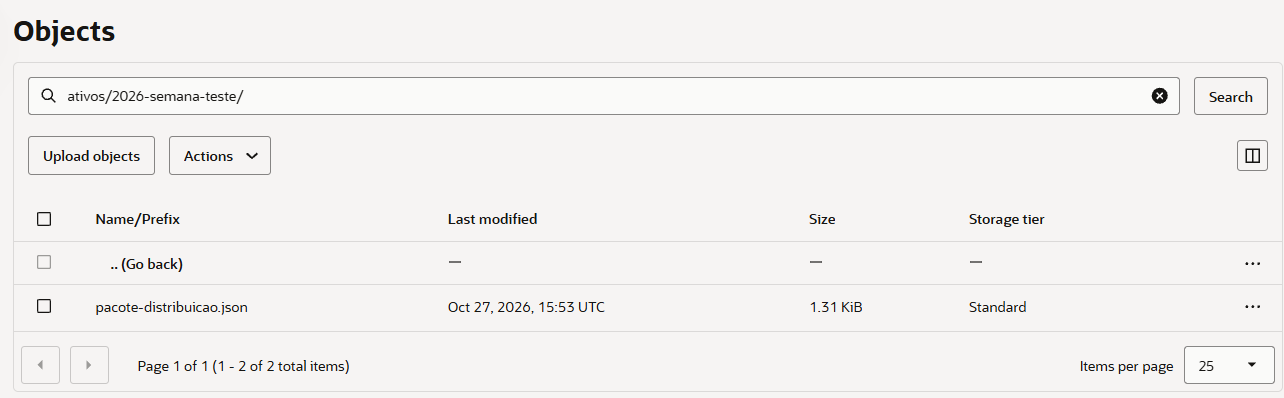
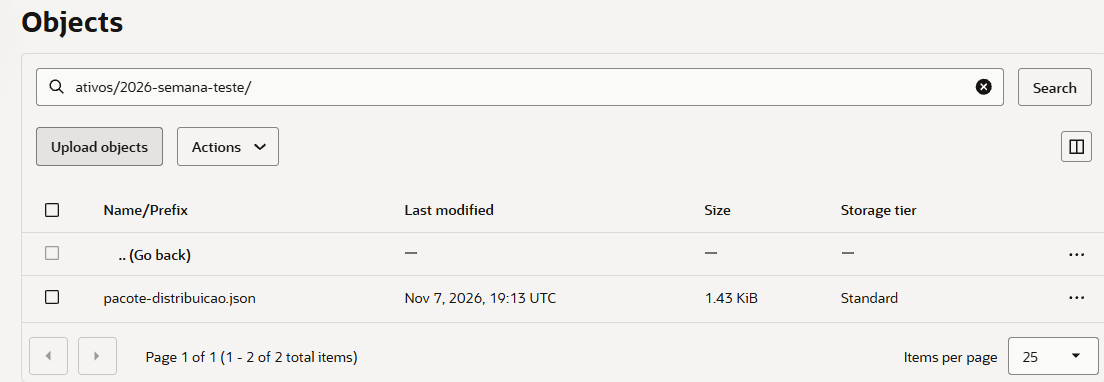
docs: adiciona relatorio de execucao e atualiza print oci

diff --git a/docs/evidencias/relatorio_execucao_oci.md b/docs/evidencias/relatorio_execucao_oci.md
@@ -1,0 +1,90 @@
+# Relatório de Execução do Fluxo Completo e Persistência OCI
+
+**Data da Execução:** 07/11/2026  
+**Ambiente:** Branch `main` (versão atualizada pós-roteamento e regras de privacidade)  
+**Autor:** Denilson Silva de Almeida (Engenharia de Dados)
+
+---
+
+## 1. Comando Executado
+
+O pipeline completo foi acionado via terminal com a flag de persistência na Oracle Cloud Infrastructure (`--oci`):
+
+```bash
+python -m src.pipeline dados/caso_proposta_estagio.json --oci --periodo Semana_Teste
+```
+
+---
+
+## 2. Saída do Terminal (`status: salvo_com_sucesso`)
+
+```json
+{
+  "status": "sucesso",
+  "resumo_comunidade": {
+    "total_interacoes_processadas": 2,
+    "sentimento_predominante": "Positivo",
+    "topicos_principais": [
+      "proposta de estágio em engenharia de dados",
+      "freela de automação"
+    ]
+  },
+  "ativos_distribuicao_gerados": {
+    "post_linkedin": {
+      "titulo": "Proposta de estágio em engenharia de dados e primeiro freela de automação",
+      "copy": "Duas conquistas da comunidade ONE! 🚀\n\nGustavo Prado recebeu uma proposta de estágio em engenharia de dados, depois de publicar no GitHub um pipeline com bucket na nuvem.\n\nHenrique Barros fechou seu primeiro freela de automação, usando n8n com Webhook para conectar um formulário a uma planilha, e o cliente adorou.\n\nParabéns a ambos! Qual projeto seu merece ser mostrado? Compartilhe nos comentários.\n\n#EngenhariaDeDados #Automação #CarreiraTech",
+      "canal_recomendado": "LinkedIn Oficial",
+      "potencial_engajamento": "Alto"
+    },
+    "destaque_newsletter_semanal": {
+      "secao": "Vitória da Semana",
+      "chamada": "Gustavo recebe proposta de estágio em engenharia de dados",
+      "resumo": "Gustavo Prado recebeu uma proposta de estágio em engenharia de dados após publicar no GitHub um pipeline com bucket na nuvem. Henrique Barros fechou seu primeiro freela de automação usando n8n e Webhook. Quer mostrar seu projeto? Conte em #conquistas-e-vagas."
+    },
+    "sugestao_conteudo_faq": null
+  },
+  "armazenamento_oci": {
+    "bucket": "communitylab-ativos-marketing",
+    "caminho_objeto": "ativos/2026-semana-teste/pacote-distribuicao.json",
+    "status": "salvo_com_sucesso"
+  }
+}
+```
+
+> **Cópia local gerada:** `saida/2026-semana-teste_pacote-distribuicao.json`
+
+---
+
+## 3. Comparação: Arquivo no Bucket OCI vs Cópia Local em `saida/`
+
+- **Conteúdo de Negócio:** Idêntico (100% de paridade nos ativos de marketing: LinkedIn, Newsletter e tópicos extraídos).
+- **Diferença Estrutural:** A única diferença é a presença do bloco `armazenamento_oci` na cópia local em `saida/`, que registra o metadado da confirmação do upload (`status: salvo_com_sucesso`, bucket de destino e caminho da partição). No payload enviado ao bucket, o objeto contém os ativos gerados sem auto-referência cíclica ao próprio status de envio.
+
+---
+
+## 4. Evidência no Bucket OCI (Console Web)
+
+Persistência validada no Object Storage da Oracle Cloud no caminho `ativos/2026-semana-teste/pacote-distribuicao.json`:
+
+![Evidência OCI Bucket](./oci_bucket_2026-semana-teste.png)
+
+*(Observação: Informações sensíveis de tenancy, namespace e OCIDs foram omitidas conforme boas práticas de segurança).*
+
+---
+
+## 5. Diagrama de Arquitetura e Fluxo
+
+O fluxo arquitetural reflete o pré/pós-processamento de roteamento, regras de anonimização e persistência assíncrona/fallback no OCI Object Storage conforme o diagrama atualizado no repositório.
+
+---
+
+## 📌 Resumo / Checklist de Validação das Entregas
+
+Para conferência rápida dos 4 critérios solicitados pela equipe:
+
+| Item | Solicitação | Status | Onde Conferir |
+| :--- | :--- | :---: | :--- |
+| **1** | **Saída do terminal com `salvo_com_sucesso`** | ✅ Concluído | Seção 2 deste relatório (JSON completo com flag OCI confirmada). |
+| **2** | **Comparação Bucket OCI vs Cópia Local** | ✅ Concluído | Seção 3 (conteúdo idêntico; cópia local agrega o metadado `armazenamento_oci`). |
+| **3** | **Novo print do Bucket sem dados sensíveis** | ✅ Concluído | Seção 4 (print de 07/11/2026, 19:13 UTC sem namespace/OCID expostos). |
+| **4** | **Diagrama de fluxo atualizado** | ✅ Concluído | Seção 5 e Mermaid/Miro com roteamento e fallback desacoplados. |
